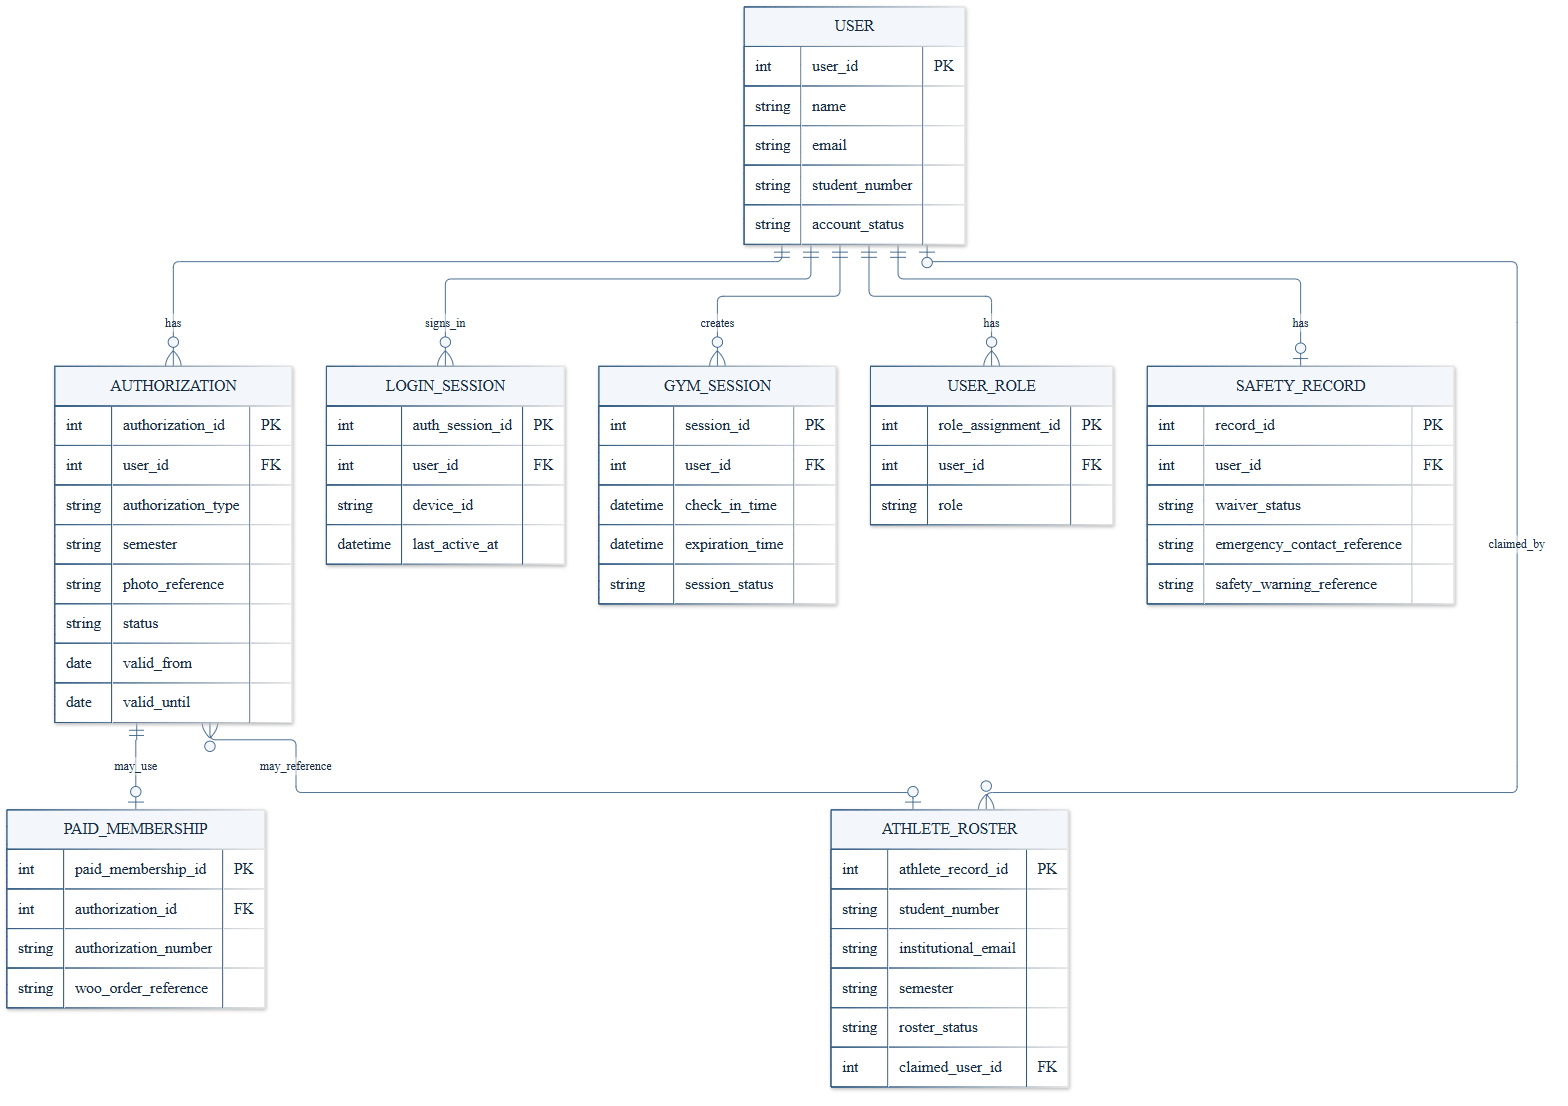
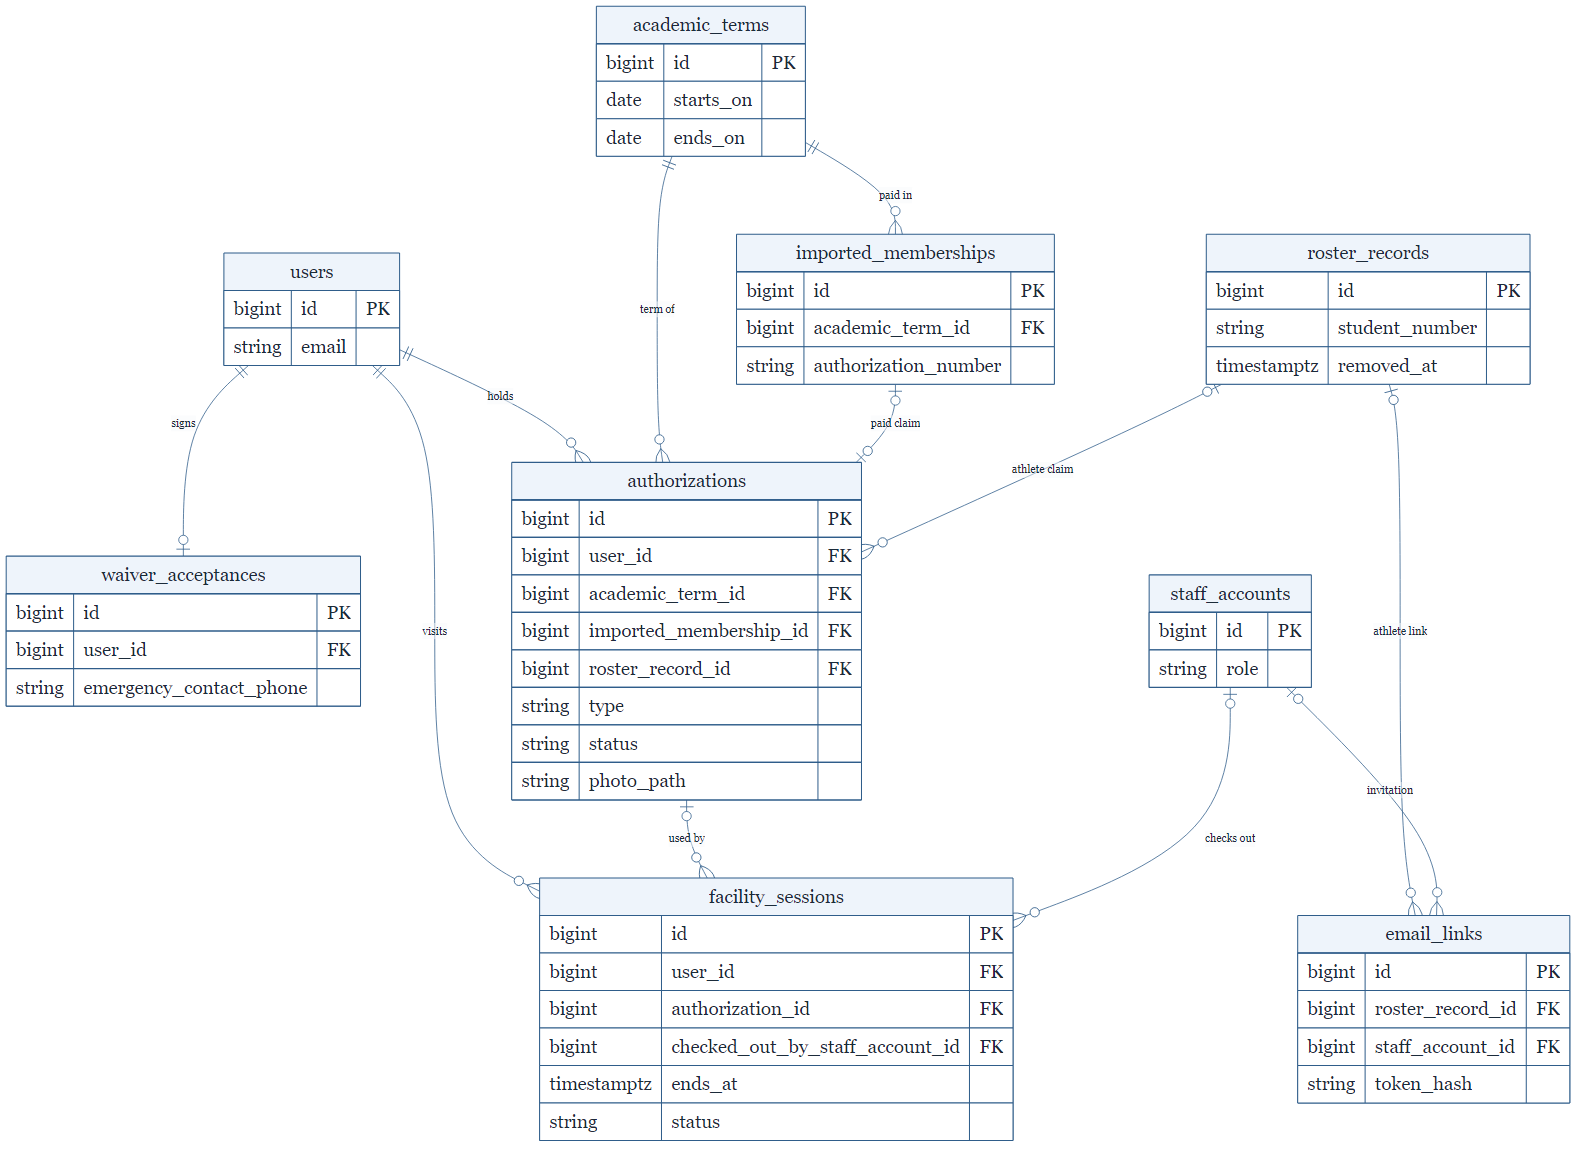
Redraw the five design diagrams from the code on main, since the proposal's versions showed tables, services and steps that no longer exist

diff --git a/docs/progress_report/diagrams/big.css b/docs/progress_report/diagrams/big.css
@@ -1,0 +1,1 @@
+.nodeLabel, .edgeLabel, .cluster-label, .label { font-size: 22px !important; }

diff --git a/docs/progress_report/sections/05-technical-approach.tex b/docs/progress_report/sections/05-technical-approach.tex
@@ -70,54 +70,55 @@ The User app (Figure~\ref{fig:ui-pwa}) is a PWA built for phones, which supply t
 
 Figures~\ref{fig:architecture} to~\ref{fig:datamodel} show the architecture, account creation, the authorization lifecycle, the Check In sequence, and the data model.
 
+% Diagrams are rendered from diagrams/*.mmd: npx -y @mermaid-js/mermaid-cli@11.4.2 -i diagrams/<name>.mmd -o diagrams/<name>.png -w 1600 -b white -c diagrams/mmd-config.json -C diagrams/big.css
 % --------------------------- FIGURE 1 ------------------------------
 \begin{figure}[!htbp]
 \centering
 \includegraphics[width=0.9\textwidth,height=0.45\textheight,keepaspectratio]{diagrams/01_architecture.png}
-\caption{High-Level System Architecture}
+\caption{\revised{System architecture as built}}
 \label{fig:architecture}
 \par\vspace{0.35em}\noindent\small\RaggedRight
-This figure shows how the User PWA and Staff/Administrator interface connect to the backend, its services, and the application database. WooCommerce, institutional email verification, and device location supply information to the relevant workflows. \pending{add the proxy, scheduler, photo volume, and mail of the container list to this figure; team}
+\revised{One docker-compose stack behind an nginx proxy, with a scheduler, a private photo volume and mail (mailpit in development, the CTI gateway in production). The store sync is planned.}
 \end{figure}
 
 % --------------------------- FIGURE 2 ------------------------------
 \begin{figure}[!htbp]
 \centering
-\includegraphics[width=0.98\textwidth,height=0.6\textheight,keepaspectratio]{diagrams/02_account_creation.png}
-\caption{Paid-Member and Athlete Account Creation}
+\includegraphics[width=0.98\textwidth,height=0.85\textheight,keepaspectratio]{diagrams/02_account_creation.png}
+\caption{\revised{Paid-member and athlete account creation}}
 \label{fig:accountcreation}
 \par\vspace{0.35em}\noindent\small\RaggedRight
-This figure separates paid-member validation by Authorization Number from athlete validation against the current roster. Both paths then create one persistent account with a password and current photo. \pending{redraw this figure: the one number field, the Authorization Number lookup limits, the emailed link that creates an athlete account, the photo and waiver saved together with the account; team}
+\revised{One number field: a 9-digit student number leads to the roster email link; any other value is an Authorization Number checked against a completed paid order. Both paths end with the password, waiver, emergency contact and photo.}
 \end{figure}
 
 % --------------------------- FIGURE 3 ------------------------------
 \begin{figure}[!htbp]
 \centering
 \includegraphics[width=0.98\textwidth,height=0.3\textheight,keepaspectratio]{diagrams/03_authorization_lifecycle.png}
-\caption{Post-Registration Account and Authorization Lifecycle}
+\caption{\revised{Authorization states}}
 \label{fig:lifecycle}
 \par\vspace{0.35em}\noindent\small\RaggedRight
-This figure begins after a persistent account has been established. Authorization may expire, be renewed, or change between paid-member and athlete access while the same User account remains intact. \pending{redraw this figure: renewal inside the same account with a new Authorization Number, the ``I am an athlete'' link, the new-term photo, manual grant and revoke, release of a mistaken claim, and revocation after a refund; team}
+\revised{An authorization is active or revoked, and an active authorization counts only while its academic term runs.}
 \end{figure}
 
 % --------------------------- FIGURE 4 ------------------------------
 \begin{figure}[!htbp]
 \centering
 \includegraphics[width=0.98\textwidth,height=0.5\textheight,keepaspectratio]{diagrams/04_checkin_session.png}
-\caption{Check-In and Facility Session Sequence}
+\caption{\revised{Check In and facility session}}
 \label{fig:checkin}
 \par\vspace{0.35em}\noindent\small\RaggedRight
-This figure shows how authorization, location, active-session control, Gym ID, and Staff verification interact during Check In. The active-session check and session creation are one protected backend operation, so simultaneous requests cannot create overlapping sessions. Location is requested only when a new session is needed. \pending{redraw this figure: remove the separate Authorization Service (checks run inside the Laravel app), show the two-step flow with an eligibility query before the Check In request, the cause codes, the database exclusion constraint, and the check-out and 2-hour close; team}
+\revised{An open visit is returned as is. Otherwise authorization, photo, schedule and location (accuracy 50 m or better, within 50 m) are checked, and a visit opens that closes on Staff check-out or 2 hours after Check In.}
 \end{figure}
 
 % --------------------------- FIGURE 5 ------------------------------
 \begin{figure}[!htbp]
 \centering
 \includegraphics[width=0.98\textwidth,height=0.45\textheight,keepaspectratio]{diagrams/05_data_model.png}
-\caption{Conceptual Data Model}
+\caption{\revised{Data model}}
 \label{fig:datamodel}
 \par\vspace{0.35em}\noindent\small\RaggedRight
-This figure separates identity, authorization, sign-in state, facility sessions, roles, and protected membership information. The model keeps semester-specific photographs with Authorization rather than treating the photograph as a permanent User attribute. \pending{redraw this figure: add academic terms, store orders and sync records, roster records, email links, staff accounts, and audit log entries; rename login session to sign-in session; reduce safety records to the waiver acceptance with an emergency contact; team}
+\revised{Main tables and foreign keys from the database migrations. Content, schedule, statistics, audit, import and session-support tables are omitted.}
 \end{figure}
 
 \subsection{Related Works}
